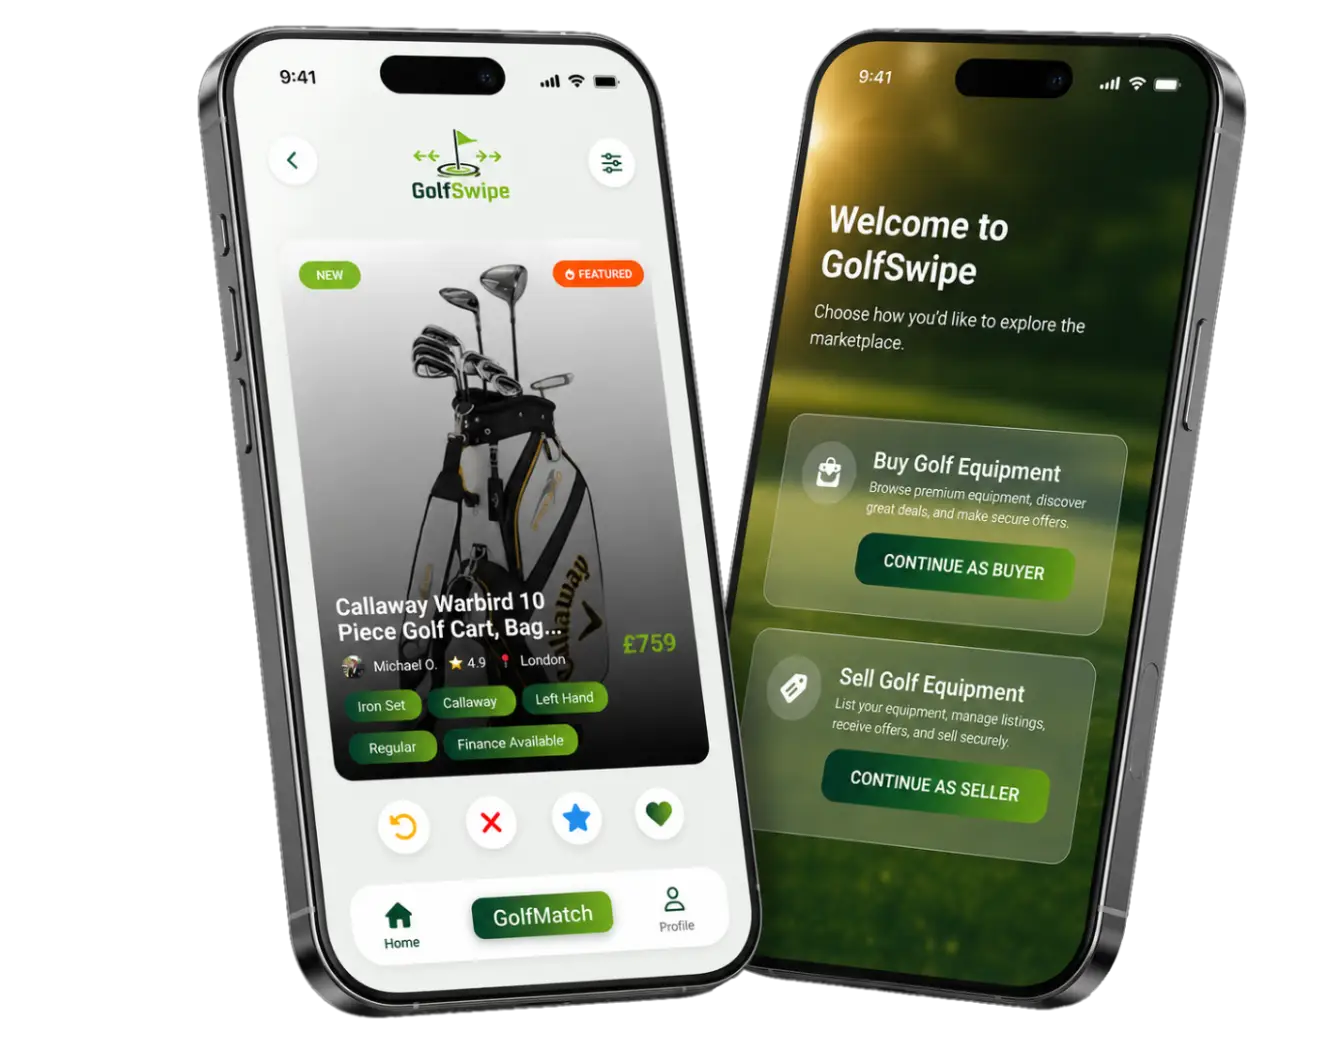
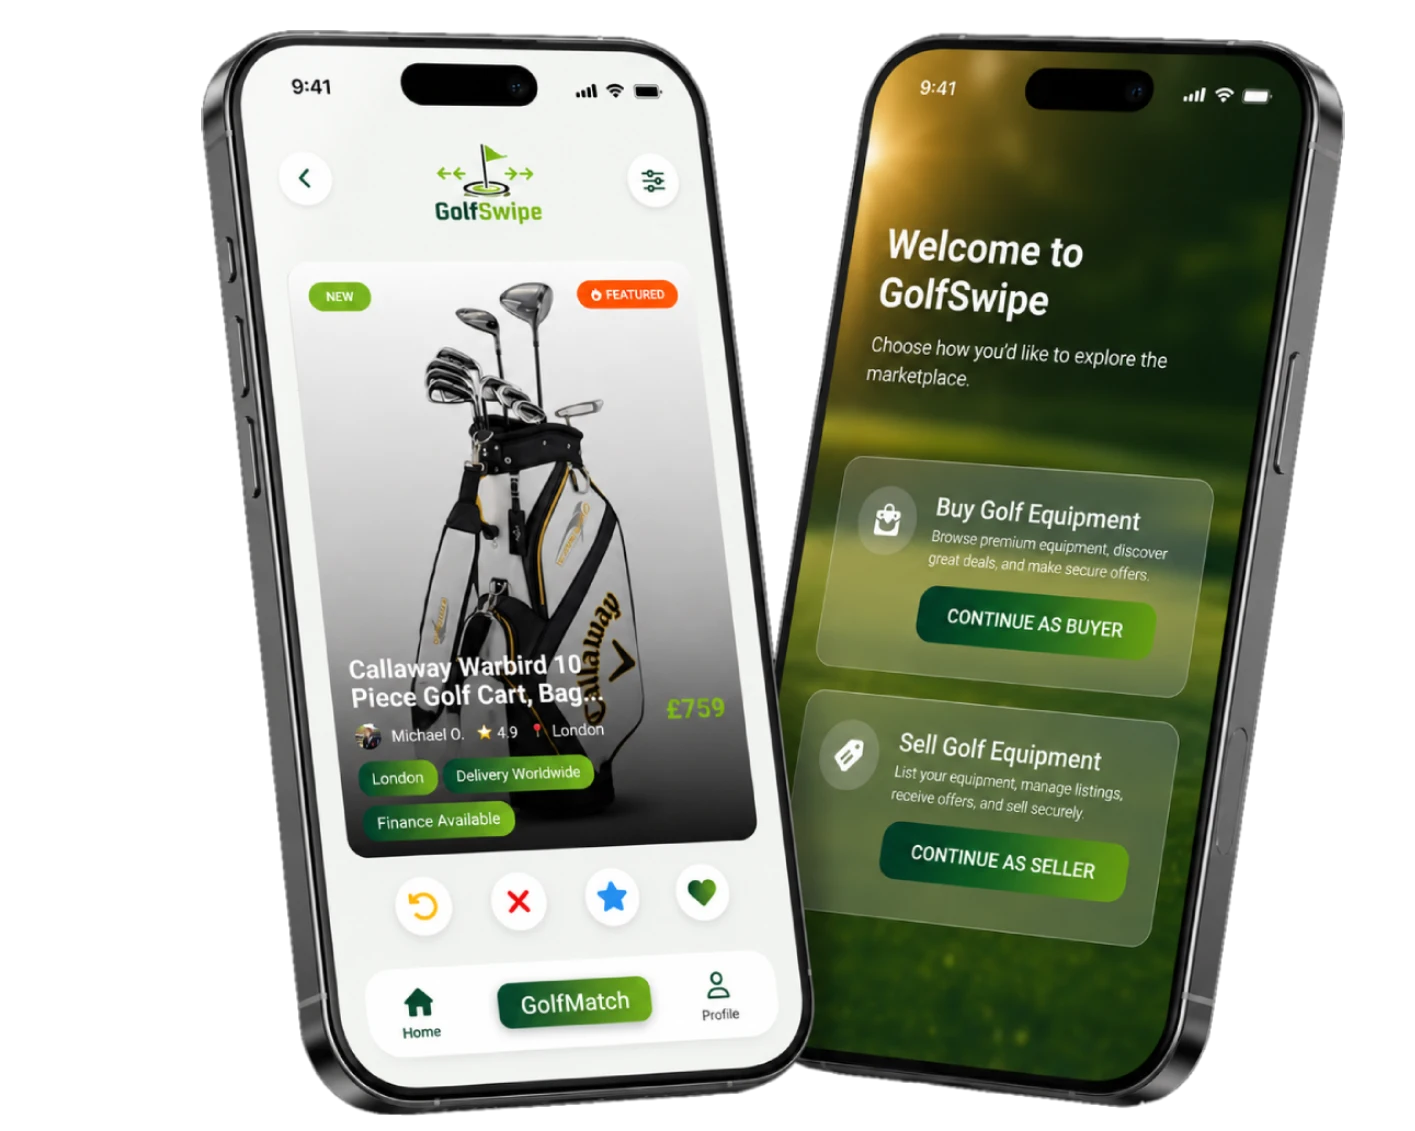
Update images and marketplace section copy
Add new player image asset and reorganize image references across components. Update marketplace copy including typo fixes (TrustaAp → TrustAp) and text refinements in the AboutGolfswipe section.

Changed region(s): [[0.1233, 0.0, 0.9556, 1.0], [0.3083, 0.1228, 0.4008, 0.215], [0.7398, 0.0921, 0.8015, 0.1228]]

diff --git a/src/components/sections/marketplace/aboutGolfswipe.tsx b/src/components/sections/marketplace/aboutGolfswipe.tsx
@@ -25,9 +25,9 @@ export default function AboutGolfswipe() {
             </span>
 
             <h2 className="text-3xl font-bold leading-tight tracking-tight text-[#03372b] sm:text-4xl lg:text-[2.75rem] xl:text-5xl xl:leading-[1.15]">
-              The World&apos;s fastest growing{" "}
+            The worlds fastest growing{" "}
               <span className="bg-gradient-to-r from-[#03372b] via-[#054e3d] to-[#8cc129] bg-clip-text text-transparent">
-                Golf Ecosystem App.
+              borderless golf marketplace
               </span>
             </h2>
 
@@ -50,7 +50,7 @@ export default function AboutGolfswipe() {
               </p>
 
               <p>
-                When you find the perfect match, our optional integrated TrustaAp
+                When you find the perfect match, our optional integrated TrustAp
                 Escrow Service locks the funds securely in a digital vault. The
                 seller gets paid only when the gear arrives at your door and you
                 verify it&apos;s exactly what you ordered.{" "}

diff --git a/src/components/sections/features/golf-jobs-board.tsx b/src/components/sections/features/golf-jobs-board.tsx
@@ -97,7 +97,7 @@ export default function GolfJobsBoard() {
                 <div className="relative overflow-hidden rounded-[2rem] border border-[#03372b]/10 bg-white shadow-[0_20px_50px_-12px_rgba(3,55,43,0.15)] sm:rounded-[1.5rem]">
                   <div className="relative h-[420px] w-full sm:h-[500px]">
                     <Image
-                      src="/asset/img/job.webp"
+                      src="/asset/img/about-golf.webp"
                       alt="GolfSwipe app — Golf Jobs Board connecting clubs and talent"
                       fill
                       className="object-cover object-top"

diff --git a/src/components/sections/home/about.tsx b/src/components/sections/home/about.tsx
@@ -57,7 +57,7 @@ export default function About() {
 
               <div className="relative aspect-[4/5] w-full overflow-hidden rounded-3xl border ring-1 sm:aspect-[5/6] lg:aspect-square">
                 <Image
-                  src="/asset/img/about-golf.webp"
+                  src="/asset/img/player.webp"
                   alt="Golfer on the course at golden hour"
                   fill
                   className="object-cover object-center"